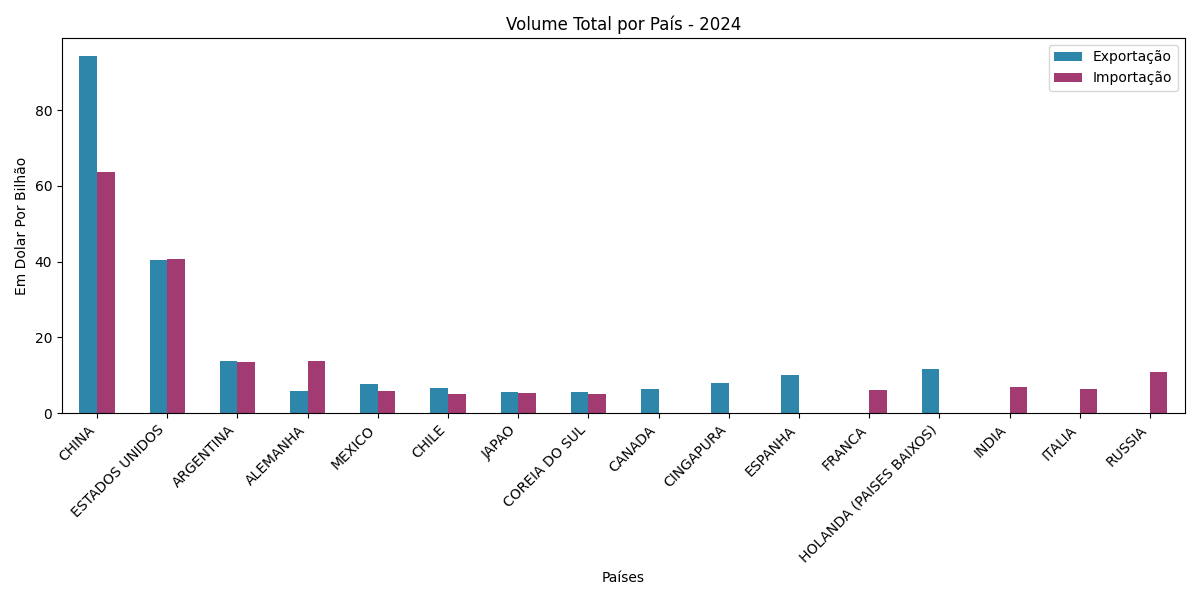
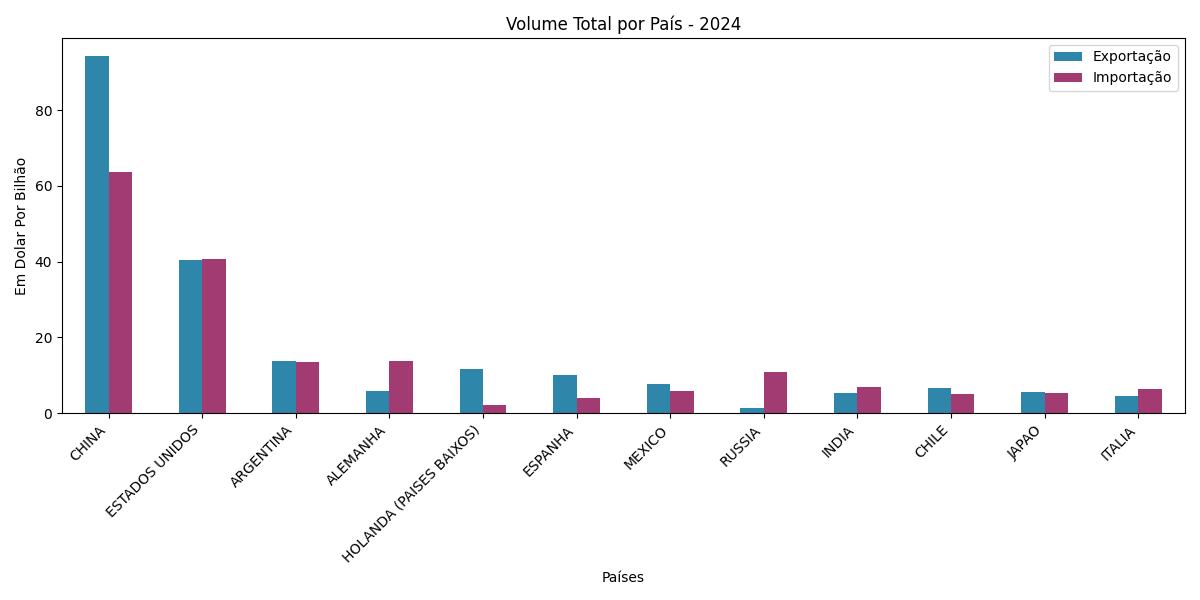
feat: count graph

diff --git a/scripts/count.py b/scripts/count.py
@@ -1,10 +1,18 @@
-from utils import save_csv, read_processed
+from utils import save_csv, read_processed, read_csv, plot_combined_graph
+
+
+def format_base_file_name(file_base_name, label):
+    return f"CONTAGEM_POR_{label}_{file_base_name}"
+
+
+def format_csv_file_name(file_base_name, label):
+    return f"data/{format_base_file_name(file_base_name, label)}.csv"
 
 
 def process_count(file_base_name, column, label):
     data = read_processed(file_base_name)[column].value_counts().reset_index()
     data.columns = [column, "QUANTIDADE"]
-    save_csv(data, f"data/CONTAGEM_POR_{label}_{file_base_name}.csv")
+    save_csv(data, format_csv_file_name(file_base_name, label))
 
 
 def process_count_country(file_base_name):
@@ -23,4 +31,73 @@ count_callbacks = [
     process_count_country,
     process_count_uf,
     process_count_month,
+]
+
+
+def graph_count_per(year, label, x_column, x_label, title_prefix, sort_by, limit=None):
+    exp_file = f"EXP_{year}"
+    imp_file = f"IMP_{year}"
+
+    data_exp = read_csv(format_csv_file_name(exp_file, label))
+    data_imp = read_csv(format_csv_file_name(imp_file, label))
+
+    y_column = "QUANTIDADE"
+    data_exp[y_column] = data_exp[y_column] / 1_000
+    data_imp[y_column] = data_imp[y_column] / 1_000
+
+    file_name = f"data/graphics/CONTAGEM_POR_{label}_{year}.png"
+    title = f"{title_prefix} - {year}"
+
+    plot_combined_graph(
+        data_exp,
+        data_imp,
+        x_column=x_column,
+        x_label=x_label,
+        y_column=y_column,
+        y_label="Quantidade (em milhares)",
+        title=title,
+        file_name=file_name,
+        sort_by=sort_by,
+        limit=limit,
+    )
+
+
+def graph_count_country(year):
+    graph_count_per(
+        year,
+        label="PAIS",
+        x_column="NOME_PAIS",
+        x_label="País",
+        title_prefix="Contagem por País",
+        sort_by="y",
+        limit=10,
+    )
+
+
+def graph_count_uf(year):
+    graph_count_per(
+        year,
+        label="UF",
+        x_column="NOME_UF",
+        x_label="Unidade Federativa",
+        title_prefix="Contagem por Unidade Federativa",
+        sort_by="y",
+    )
+
+
+def graph_count_month(year):
+    graph_count_per(
+        year,
+        label="MES",
+        x_column="CO_MES",
+        x_label="Mês",
+        title_prefix="Contagem por Mês",
+        sort_by="x",
+    )
+
+
+count_graph_callbacks = [
+    graph_count_country,
+    graph_count_uf,
+    graph_count_month,
 ]

diff --git a/scripts/total.py b/scripts/total.py
@@ -50,9 +50,6 @@ def graph_total_per(year, label, x_column, x_label, title_prefix, sort_by, limit
 
     data_exp = read_csv(format_csv_file_name(exp_file, label))
     data_imp = read_csv(format_csv_file_name(imp_file, label))
-    if limit is not None:
-        data_exp = data_exp[:limit]
-        data_imp = data_imp[:limit]
 
     y_column = "TOTAL_VL_FOB"
     data_exp[y_column] = data_exp[y_column] / 1_000_000_000
@@ -64,13 +61,14 @@ def graph_total_per(year, label, x_column, x_label, title_prefix, sort_by, limit
     plot_combined_graph(
         data_exp,
         data_imp,
-        x_column,
-        x_label,
-        y_column,
-        "Em Dolar Por Bilhão",
-        title,
-        file_name,
-        sort_by,
+        x_column=x_column,
+        x_label=x_label,
+        y_column=y_column,
+        y_label="Em Dolar Por Bilhão",
+        title=title,
+        file_name=file_name,
+        sort_by=sort_by,
+        limit=limit,
     )
 
 

diff --git a/scripts/__main__.py b/scripts/__main__.py
@@ -6,7 +6,7 @@ import pandas as pd
 import encode
 import countries
 import states
-from count import count_callbacks
+from count import count_callbacks, count_graph_callbacks
 from total import total_callbacks, total_graph_callbacks
 from utils import remove_columns, read_processed
 
@@ -54,7 +54,7 @@ def statistics():
 
 def graphs():
     years = ["2024", "2025"]
-    graph_callbacks = [*total_graph_callbacks]
+    graph_callbacks = [*total_graph_callbacks, *count_graph_callbacks]
     for year in years:
         for call in graph_callbacks:
             call(year)

diff --git a/scripts/utils.py b/scripts/utils.py
@@ -48,6 +48,7 @@ def plot_combined_graph(
     title: str,
     file_name: str,
     sort_by: str | None = None,
+    limit=None,
 ):
     merged = pd.merge(
         data_exp[[x_column, y_column]],
@@ -62,6 +63,9 @@ def plot_combined_graph(
         merged = merged.sort_values("_total", ascending=False).drop(columns=["_total"])
     elif sort_by == "x":
         merged = merged.sort_values(x_column)
+
+    if limit is not None:
+        merged = merged[:limit]
 
     ax = merged.plot(
         kind="bar",
